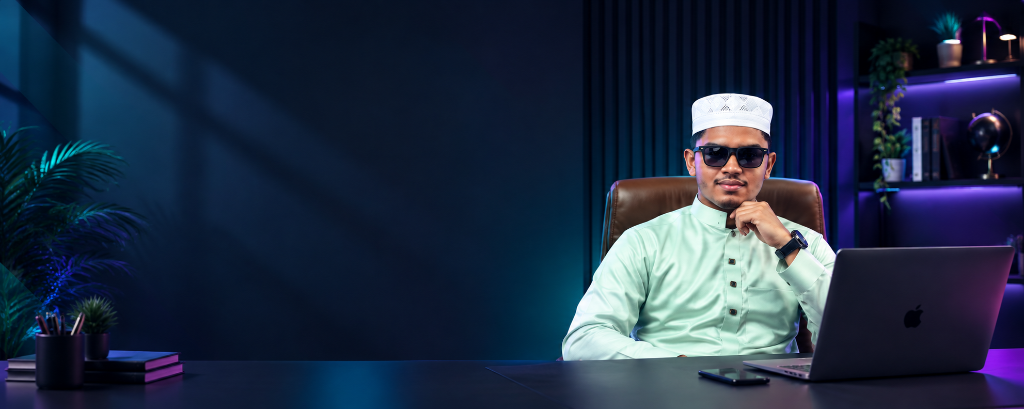
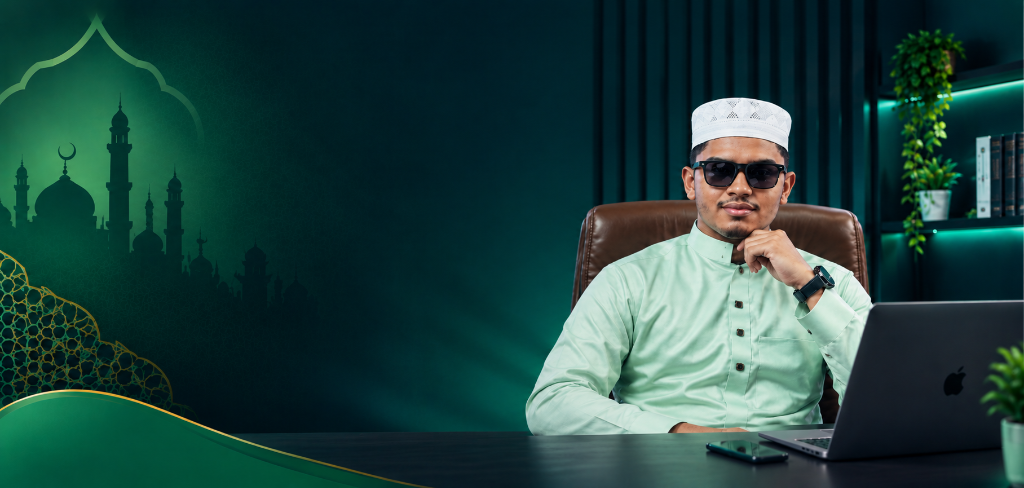
feat: update hero background image and hero layout

diff --git a/src/pages/public/HomePage.tsx b/src/pages/public/HomePage.tsx
@@ -20,7 +20,9 @@ import {
   ChevronRight,
   Volume2,
   VolumeX,
-  RotateCcw
+  RotateCcw,
+  Send,
+  Users
 } from 'lucide-react';
 import { useCMS } from '../../context/CMSContext';
 import { SEO } from '../../components/common/SEO';
@@ -33,11 +35,11 @@ export const HomePage: React.FC = () => {
 
   // Typewriter animation state for hero headline
   const phrases = [
+    'Faith That Inspires.',
     'Knowledge That Empowers.',
     'Voices That Resonate.',
     'Wisdom That Enlightens.',
     'Truth That Overcomes.',
-    'Faith That Inspires.',
   ];
   const [typedText, setTypedText] = useState('');
   const [phraseIdx, setPhraseIdx] = useState(0);
@@ -140,23 +142,21 @@ export const HomePage: React.FC = () => {
           className="absolute inset-0 w-full h-full object-cover object-[70%_center] md:object-[65%_center] lg:object-[60%_center] xl:object-center select-none"
         />
 
-        {/* Cinematic Subtle Gradient Overlays (preserves the office & plant aesthetic) */}
-        <div className="absolute inset-0 bg-gradient-to-r from-slate-950 via-slate-950/80 md:via-slate-950/50 to-transparent pointer-events-none" />
-        <div className="absolute top-0 inset-x-0 h-24 bg-gradient-to-b from-slate-950/70 to-transparent pointer-events-none" />
-        <div className="absolute bottom-0 inset-x-0 h-28 bg-gradient-to-t from-slate-950 via-slate-950/60 to-transparent pointer-events-none" />
-        <div className="sm:hidden absolute inset-0 bg-slate-950/60 pointer-events-none" />
+        {/* Subtle Top & Bottom Gradient for Content Contrast */}
+        <div className="absolute top-0 inset-x-0 h-24 bg-gradient-to-b from-slate-950/60 to-transparent pointer-events-none" />
+        <div className="absolute bottom-0 inset-x-0 h-20 bg-gradient-to-t from-slate-950/70 to-transparent pointer-events-none" />
 
         {/* Minimal Hero Content Container */}
-        <div className="max-w-7xl mx-auto px-4 sm:px-6 lg:px-8 relative z-10 pt-28 sm:pt-32 pb-14 sm:pb-16 lg:pt-36 lg:pb-20 w-full">
-          <div className="max-w-xl lg:max-w-2xl space-y-5 text-left">
-            {/* Minimal Status Tag */}
+        <div className="max-w-7xl mx-auto px-4 sm:px-6 lg:px-8 relative z-10 pt-28 sm:pt-32 pb-14 sm:pb-16 lg:pt-36 lg:pb-16 w-full flex flex-col justify-between min-h-[90vh]">
+          <div className="max-w-xl lg:max-w-2xl space-y-4 text-left">
+            {/* Pill Tag with emerald dot */}
             <motion.div
               initial={{ opacity: 0, y: 12 }}
               animate={{ opacity: 1, y: 0 }}
               transition={{ duration: 0.5 }}
-              className="inline-flex items-center gap-2 px-3.5 py-1 rounded-full bg-slate-900/80 border border-emerald-500/40 text-emerald-300 text-xs font-bold tracking-widest uppercase backdrop-blur-md shadow-lg"
+              className="inline-flex items-center gap-2 px-4 py-1.5 rounded-full bg-slate-950/60 border border-emerald-500/40 text-emerald-300 text-xs font-bold tracking-widest uppercase backdrop-blur-md shadow-lg"
             >
-              <span className="w-2 h-2 rounded-full bg-emerald-400 animate-pulse" />
+              <span className="w-2 h-2 rounded-full bg-emerald-400" />
               <span>AL HAFEEL A. A. M. ABDULLAH</span>
             </motion.div>
 
@@ -168,7 +168,7 @@ export const HomePage: React.FC = () => {
               className="text-4xl sm:text-5xl md:text-6xl lg:text-7xl font-serif font-black text-white leading-[1.08] tracking-tight drop-shadow-xl min-h-[2.15em] sm:min-h-[2.2em]"
             >
               Words That Inspire. <br />
-              <span className="bg-gradient-to-r from-amber-300 via-emerald-300 to-amber-200 bg-clip-text text-transparent">
+              <span className="bg-gradient-to-r from-amber-300 via-amber-200 to-amber-400 bg-clip-text text-transparent">
                 {typedText}
               </span>
               <span
@@ -177,12 +177,12 @@ export const HomePage: React.FC = () => {
               />
             </motion.h1>
 
-            {/* Clean 1-Line Role Descriptor (No walls of text) */}
+            {/* Clean 1-Line Role Descriptor */}
             <motion.p
               initial={{ opacity: 0, y: 18 }}
               animate={{ opacity: 1, y: 0 }}
               transition={{ duration: 0.6, delay: 0.2 }}
-              className="text-sm sm:text-base md:text-lg text-slate-300 font-medium tracking-wide flex flex-wrap items-center gap-x-2 gap-y-1 drop-shadow"
+              className="text-xs sm:text-sm md:text-base text-slate-200 font-semibold tracking-wide flex flex-wrap items-center gap-x-2.5 gap-y-1"
             >
               <span>Journalist</span>
               <span className="text-emerald-400 font-bold">•</span>
@@ -193,7 +193,17 @@ export const HomePage: React.FC = () => {
               <span>Hafiz-ul-Qur'an</span>
             </motion.p>
 
-            {/* Sleek Action Buttons */}
+            {/* Mission Subtitle */}
+            <motion.p
+              initial={{ opacity: 0, y: 18 }}
+              animate={{ opacity: 1, y: 0 }}
+              transition={{ duration: 0.6, delay: 0.25 }}
+              className="text-xs sm:text-sm text-slate-300/90 max-w-lg leading-relaxed pt-1"
+            >
+              Spreading knowledge, strengthening faith and creating positive change through media and education.
+            </motion.p>
+
+            {/* Sleek Action Buttons (Matched to Mock) */}
             <motion.div
               initial={{ opacity: 0, y: 18 }}
               animate={{ opacity: 1, y: 0 }}
@@ -203,10 +213,10 @@ export const HomePage: React.FC = () => {
               <Link
                 to="/journey"
                 onClick={() => announce('Navigating to Professional Journey')}
-                className="px-6 py-3 bg-emerald-600 hover:bg-emerald-500 text-white font-bold rounded-xl shadow-xl shadow-emerald-950/60 hover:shadow-emerald-600/30 transition-all flex items-center gap-2 text-xs sm:text-sm focus:ring-4 focus:ring-amber-400"
+                className="px-6 py-3 bg-gradient-to-r from-emerald-500 to-emerald-600 hover:from-emerald-400 hover:to-emerald-500 text-white font-bold rounded-full shadow-xl shadow-emerald-950/60 hover:shadow-emerald-500/30 transition-all flex items-center gap-2.5 text-xs sm:text-sm focus:ring-4 focus:ring-emerald-400"
               >
-                <span>Explore Journey</span>
-                <ArrowRight className="w-4 h-4" aria-hidden="true" />
+                <Send className="w-3.5 h-3.5" aria-hidden="true" />
+                <span>Explore My Journey</span>
               </Link>
 
               <button
@@ -216,31 +226,75 @@ export const HomePage: React.FC = () => {
                     setSelectedVideo(firstVid);
                   }
                 }}
-                className="px-5 py-3 bg-slate-900/85 hover:bg-slate-800 text-white font-bold rounded-xl border border-slate-700/80 backdrop-blur-md shadow-lg transition-all flex items-center gap-2 text-xs sm:text-sm focus:ring-4 focus:ring-emerald-500 cursor-pointer"
+                className="px-6 py-3 bg-slate-950/60 hover:bg-slate-900 text-white font-bold rounded-full border border-slate-700/80 backdrop-blur-md shadow-lg transition-all flex items-center gap-2.5 text-xs sm:text-sm focus:ring-4 focus:ring-emerald-500 cursor-pointer"
               >
-                <div className="w-4 h-4 rounded-full bg-red-600 flex items-center justify-center">
+                <div className="w-5 h-5 rounded-full border border-white/40 flex items-center justify-center">
                   <Play className="w-2.5 h-2.5 text-white fill-white ml-0.5" aria-hidden="true" />
                 </div>
                 <span>Watch My Work</span>
               </button>
-
-              {/* YouTube Channel Badge */}
-              <a
-                href={
-                  socialLinks.find((s) => s.platform === 'youtube')?.url ||
-                  'https://youtube.com/@islamictvmedia_abdullah?si=ZGYZWdd-UBXzrqBH'
-                }
-                target="_blank"
-                rel="noopener noreferrer"
-                className="px-4 py-3 bg-red-600/20 hover:bg-red-600/30 text-red-200 border border-red-500/30 font-bold rounded-xl backdrop-blur-md transition-all flex items-center gap-2 text-xs group"
-              >
-                <YoutubeIcon className="w-4 h-4 text-red-500 group-hover:scale-110 transition-transform" />
-                <span>@islamictvmedia_abdullah</span>
-                <span className="text-amber-400 text-[11px]">• 18.3K Subs</span>
-                <ExternalLink className="w-3 h-3 text-slate-400 ml-0.5" />
-              </a>
             </motion.div>
           </div>
+
+          {/* Bottom Feature Dock (4 Cards matched to design mock) */}
+          <motion.div
+            initial={{ opacity: 0, y: 20 }}
+            animate={{ opacity: 1, y: 0 }}
+            transition={{ duration: 0.6, delay: 0.4 }}
+            className="mt-8 pt-4 w-full max-w-xl lg:max-w-2xl"
+          >
+            <div className="p-2 sm:p-2.5 rounded-2xl bg-black/40 border border-white/10 backdrop-blur-xl shadow-2xl grid grid-cols-2 sm:grid-cols-4 gap-2">
+              {/* Card 1: Media Presenter */}
+              <Link
+                to="/media"
+                className="p-3 rounded-xl bg-white/5 hover:bg-white/10 border border-white/5 hover:border-emerald-500/30 transition-all text-center flex flex-col items-center justify-center space-y-1.5 group cursor-pointer"
+              >
+                <Radio className="w-5 h-5 text-emerald-400 group-hover:scale-110 transition-transform" />
+                <span className="text-xs font-bold text-white block leading-tight">Media Presenter</span>
+                <span className="text-[10px] text-slate-400 block">On TV & Digital</span>
+              </Link>
+
+              {/* Card 2: Islamic Educator */}
+              <Link
+                to="/quran-classes"
+                className="p-3 rounded-xl bg-white/5 hover:bg-white/10 border border-white/5 hover:border-emerald-500/30 transition-all text-center flex flex-col items-center justify-center space-y-1.5 group cursor-pointer"
+              >
+                <BookOpen className="w-5 h-5 text-emerald-400 group-hover:scale-110 transition-transform" />
+                <span className="text-xs font-bold text-white block leading-tight">Islamic Educator</span>
+                <span className="text-[10px] text-slate-400 block">Guiding Hearts</span>
+              </Link>
+
+              {/* Card 3: Journalist */}
+              <Link
+                to="/journey"
+                className="p-3 rounded-xl bg-white/5 hover:bg-white/10 border border-white/5 hover:border-emerald-500/30 transition-all text-center flex flex-col items-center justify-center space-y-1.5 group cursor-pointer"
+              >
+                <Users className="w-5 h-5 text-emerald-400 group-hover:scale-110 transition-transform" />
+                <span className="text-xs font-bold text-white block leading-tight">Journalist</span>
+                <span className="text-[10px] text-slate-400 block">Telling Real Stories</span>
+              </Link>
+
+              {/* Card 4: Hafiz-ul-Qur'an */}
+              <Link
+                to="/qualifications"
+                className="p-3 rounded-xl bg-white/5 hover:bg-white/10 border border-white/5 hover:border-emerald-500/30 transition-all text-center flex flex-col items-center justify-center space-y-1.5 group cursor-pointer"
+              >
+                <CheckCircle2 className="w-5 h-5 text-emerald-400 group-hover:scale-110 transition-transform" />
+                <span className="text-xs font-bold text-white block leading-tight">Hafiz-ul-Qur'an</span>
+                <span className="text-[10px] text-slate-400 block">Quran in Life</span>
+              </Link>
+            </div>
+          </motion.div>
+        </div>
+
+        {/* Right Callout: "Knowledge Builds Better Tomorrows" Calligraphy */}
+        <div className="hidden xl:block absolute right-8 bottom-32 pointer-events-none text-right">
+          <p className="font-serif italic text-amber-200/80 text-sm font-semibold tracking-wide">
+            Knowledge<br />
+            <span className="text-white text-base">Builds</span><br />
+            <span className="text-emerald-400 text-lg font-bold">Better</span><br />
+            <span className="text-emerald-300 text-sm">Tomorrows</span>
+          </p>
         </div>
       </section>
 

diff --git a/src/components/layout/Navbar.tsx b/src/components/layout/Navbar.tsx
@@ -8,7 +8,13 @@ import {
   ChevronDown,
   GraduationCap,
   Award,
-  Image
+  Image,
+  Home as HomeIcon,
+  User,
+  Compass,
+  PlayCircle,
+  FileText,
+  Send
 } from 'lucide-react';
 import { useCMS } from '../../context/CMSContext';
 
@@ -118,53 +124,57 @@ export const Navbar: React.FC = () => {
             <NavLink
               to="/"
               className={({ isActive }) =>
-                `px-3.5 py-1.5 rounded-xl text-xs font-bold transition-all ${
+                `px-4 py-2 rounded-full text-xs font-semibold transition-all flex items-center gap-2 ${
                   isActive
-                    ? 'bg-emerald-500/25 text-emerald-300 border border-emerald-400/40 shadow-inner font-extrabold backdrop-blur-md'
-                    : 'text-slate-200 hover:text-white hover:bg-white/10'
+                    ? 'bg-emerald-800/80 text-white border border-emerald-500/50 shadow-md shadow-emerald-950/40'
+                    : 'text-slate-300 hover:text-white hover:bg-white/10'
                 }`
               }
             >
-              Home
+              <HomeIcon className="w-3.5 h-3.5 text-emerald-400" />
+              <span>Home</span>
             </NavLink>
 
             <NavLink
               to="/about"
               className={({ isActive }) =>
-                `px-3.5 py-1.5 rounded-xl text-xs font-bold transition-all ${
+                `px-3.5 py-2 rounded-full text-xs font-semibold transition-all flex items-center gap-1.5 ${
                   isActive
-                    ? 'bg-emerald-500/25 text-emerald-300 border border-emerald-400/40 shadow-inner font-extrabold backdrop-blur-md'
-                    : 'text-slate-200 hover:text-white hover:bg-white/10'
+                    ? 'bg-emerald-800/80 text-white border border-emerald-500/50 shadow-md shadow-emerald-950/40'
+                    : 'text-slate-300 hover:text-white hover:bg-white/10'
                 }`
               }
             >
-              About
+              <User className="w-3.5 h-3.5 text-slate-400" />
+              <span>About</span>
             </NavLink>
 
             <NavLink
               to="/journey"
               className={({ isActive }) =>
-                `px-3.5 py-1.5 rounded-xl text-xs font-bold transition-all ${
+                `px-3.5 py-2 rounded-full text-xs font-semibold transition-all flex items-center gap-1.5 ${
                   isActive
-                    ? 'bg-emerald-500/25 text-emerald-300 border border-emerald-400/40 shadow-inner font-extrabold backdrop-blur-md'
-                    : 'text-slate-200 hover:text-white hover:bg-white/10'
+                    ? 'bg-emerald-800/80 text-white border border-emerald-500/50 shadow-md shadow-emerald-950/40'
+                    : 'text-slate-300 hover:text-white hover:bg-white/10'
                 }`
               }
             >
-              Journey
+              <Compass className="w-3.5 h-3.5 text-slate-400" />
+              <span>Journey</span>
             </NavLink>
 
             <NavLink
               to="/media"
               className={({ isActive }) =>
-                `px-3.5 py-1.5 rounded-xl text-xs font-bold transition-all ${
+                `px-3.5 py-2 rounded-full text-xs font-semibold transition-all flex items-center gap-1.5 ${
                   isActive
-                    ? 'bg-emerald-500/25 text-emerald-300 border border-emerald-400/40 shadow-inner font-extrabold backdrop-blur-md'
-                    : 'text-slate-200 hover:text-white hover:bg-white/10'
+                    ? 'bg-emerald-800/80 text-white border border-emerald-500/50 shadow-md shadow-emerald-950/40'
+                    : 'text-slate-300 hover:text-white hover:bg-white/10'
                 }`
               }
             >
-              Media & TV
+              <PlayCircle className="w-3.5 h-3.5 text-slate-400" />
+              <span>Media & TV</span>
             </NavLink>
 
             {/* Portfolio & Credentials Dropdown */}
@@ -179,15 +189,16 @@ export const Navbar: React.FC = () => {
                 onClick={() => setDropdownOpen(!dropdownOpen)}
                 aria-expanded={dropdownOpen}
                 aria-haspopup="true"
-                className={`px-3.5 py-1.5 rounded-xl text-xs font-bold transition-all flex items-center gap-1.5 cursor-pointer ${
+                className={`px-3.5 py-2 rounded-full text-xs font-semibold transition-all flex items-center gap-1.5 cursor-pointer ${
                   isPortfolioActive
-                    ? 'bg-emerald-500/25 text-emerald-300 border border-emerald-400/40 shadow-inner font-extrabold backdrop-blur-md'
-                    : 'text-slate-200 hover:text-white hover:bg-white/10'
+                    ? 'bg-emerald-800/80 text-white border border-emerald-500/50 shadow-md shadow-emerald-950/40'
+                    : 'text-slate-300 hover:text-white hover:bg-white/10'
                 }`}
               >
+                <FileText className="w-3.5 h-3.5 text-slate-400" />
                 <span>Credentials</span>
                 <ChevronDown
-                  className={`w-3.5 h-3.5 transition-transform duration-200 ${
+                  className={`w-3 h-3 transition-transform duration-200 ${
                     dropdownOpen ? 'rotate-180 text-emerald-300' : 'text-slate-400'
                   }`}
                   aria-hidden="true"
@@ -239,10 +250,10 @@ export const Navbar: React.FC = () => {
             <NavLink
               to="/quran-classes"
               className={({ isActive }) =>
-                `px-3.5 py-1.5 rounded-xl text-xs font-bold transition-all flex items-center gap-1.5 ${
+                `px-3.5 py-2 rounded-full text-xs font-semibold transition-all flex items-center gap-1.5 ${
                   isActive
-                    ? 'bg-emerald-500/25 text-emerald-300 border border-emerald-400/40 shadow-inner font-extrabold backdrop-blur-md'
-                    : 'text-slate-200 hover:text-white hover:bg-white/10'
+                    ? 'bg-emerald-800/80 text-white border border-emerald-500/50 shadow-md shadow-emerald-950/40'
+                    : 'text-slate-300 hover:text-white hover:bg-white/10'
                 }`
               }
             >
@@ -251,15 +262,16 @@ export const Navbar: React.FC = () => {
             </NavLink>
           </nav>
 
-          {/* Dedicated Action CTA: Apple-style Glass Button */}
+          {/* Dedicated Action CTA: Pill Button with Send Icon */}
           <div className="hidden sm:flex items-center gap-3 shrink-0">
             <Link
               to="/contact"
               onClick={() => announce('Navigating to Contact page')}
-              className="px-4 sm:px-5 py-2.5 bg-emerald-600/80 hover:bg-emerald-500 text-white text-xs font-bold rounded-xl shadow-lg shadow-emerald-950/60 border border-emerald-400/30 backdrop-blur-md hover:scale-105 active:scale-95 transition-all flex items-center gap-2 focus:ring-4 focus:ring-amber-400"
+              className="px-5 py-2.5 bg-gradient-to-r from-emerald-500 to-emerald-600 hover:from-emerald-400 hover:to-emerald-500 text-white text-xs font-bold rounded-full shadow-lg shadow-emerald-950/60 hover:shadow-emerald-500/30 transition-all flex items-center gap-2 focus:ring-4 focus:ring-emerald-400 cursor-pointer"
             >
-              <Phone className="w-3.5 h-3.5 text-amber-300" aria-hidden="true" />
+              <Send className="w-3.5 h-3.5" aria-hidden="true" />
               <span>Contact & Inquiries</span>
+              <span className="ml-0.5 text-xs">→</span>
             </Link>
           </div>
 
